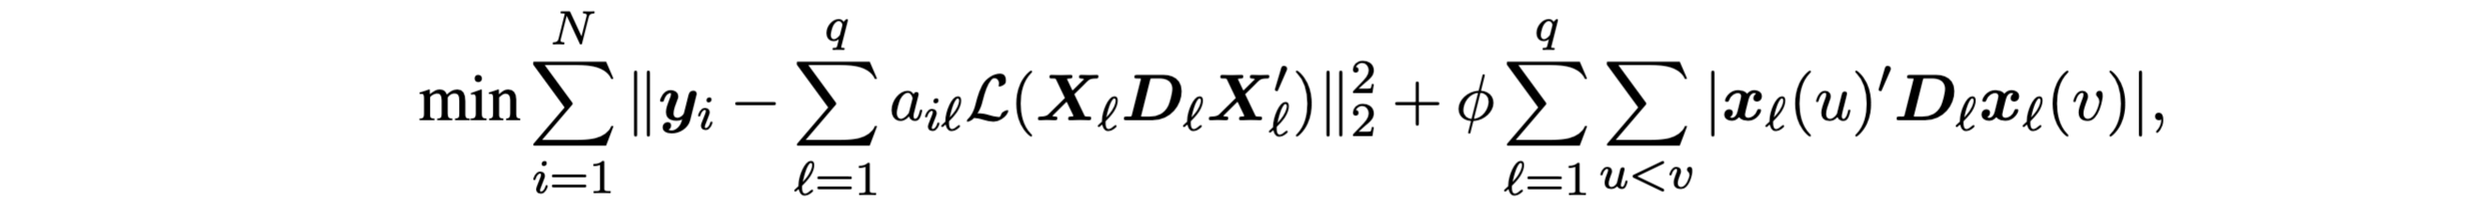
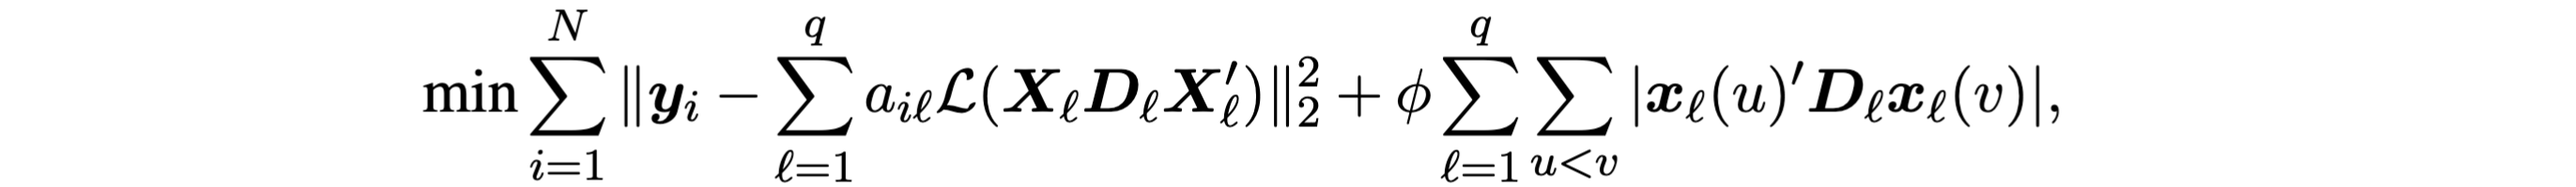
Update equation

diff --git a/README.md b/README.md
@@ -26,7 +26,7 @@ Here, each of the connectivity source signals $\mathbf S_\ell$ represents an und
 
 -   The learning of LOCUS is formulated as a non-convex optimization problem. The optimization function as below has a block multi-convex structure. LOCUS incorporates an efficient node-rotation algorithm with closed-form solutions at each iteration for the estimation.
 
-<img src="fig/equation.png" width="800" align="center"/>
+<img src="fig/equation.png" width="700" align="center"/>
 
 The `LOCUS()` is the main function of our LOCUS algorithm. The `LOCUS_BIC_selection()` selects the tuning parameter phi and rho based on our proposed BIC-like criterion.
 
